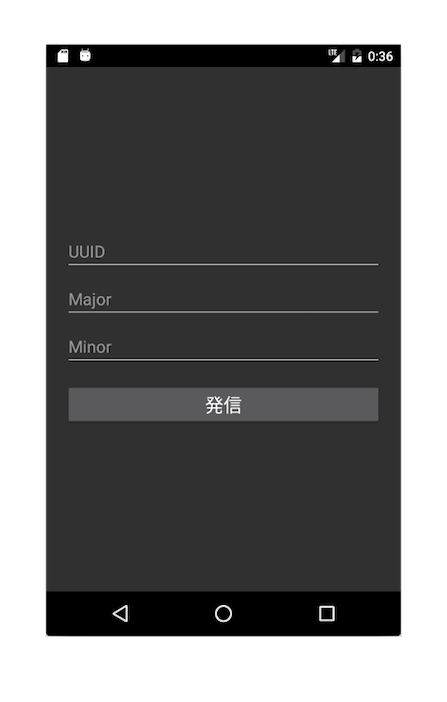
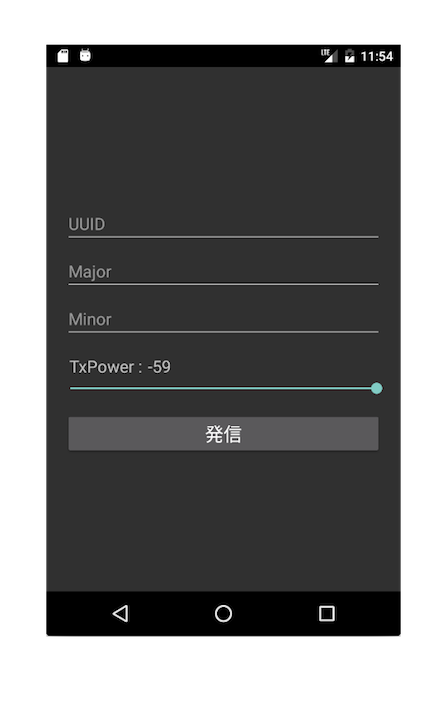
TxPowerの調整機能を追加

Changed region(s): [[0.1454, 0.0598, 0.9016, 0.8974], [0.0872, 0.0897, 0.1163, 0.8974]]

diff --git a/iBeaconTransmitter/Views/MainPage.xaml b/iBeaconTransmitter/Views/MainPage.xaml
@@ -10,6 +10,39 @@
 		<Entry Placeholder="UUID" Text="{Binding Uuid}" IsEnabled="{Binding CanEditBeaconProperties}" />
 		<Entry Placeholder="Major" Text="{Binding Major}" Keyboard="Numeric" IsEnabled="{Binding CanEditBeaconProperties}" />
 		<Entry Placeholder="Minor" Text="{Binding Minor}" Keyboard="Numeric" IsEnabled="{Binding CanEditBeaconProperties}" />
+		<StackLayout HorizontalOptions="FillAndExpand" Orientation="Horizontal" >
+			<StackLayout.Margin>
+				<OnPlatform x:TypeArguments="Thickness"
+							iOS="0,20,0,-8"
+							Android="0,10,0,-8" />
+			</StackLayout.Margin>
+			<Label Text="TxPower :">
+				<Label.FontSize>
+					<OnPlatform x:TypeArguments="x:Double"
+								iOS="18"
+								Android="18" />
+				</Label.FontSize>
+				<Label.Margin>
+					<OnPlatform x:TypeArguments="Thickness"
+								iOS="0,0,0,0"
+								Android="5,0,0,0" />
+				</Label.Margin>
+			</Label>
+			<Label Text="{Binding TxPower}">
+				<Label.FontSize>
+					<OnPlatform x:TypeArguments="x:Double"
+								iOS="18"
+								Android="18" />
+				</Label.FontSize>
+			</Label>
+		</StackLayout>
+		<Slider Minimum="-119" Maximum="-59" Value="{Binding TxPower}" IsEnabled="{Binding CanEditBeaconProperties}">
+			<Slider.Margin>
+				<OnPlatform x:TypeArguments="Thickness"
+							iOS="0,0,0,0"
+							Android="-10,5,-10,0" />
+			</Slider.Margin>
+		</Slider>
 		<Button Text="{Binding ButtonTitle}" BorderColor="Silver" BorderWidth="1" FontSize="20" Margin="0,10,0,0" Command="{Binding TransmitStartStopCommand}"/>
 	</StackLayout>
 </ContentPage>

diff --git a/iBeaconTransmitter/ViewModels/MainPageViewModel.cs b/iBeaconTransmitter/ViewModels/MainPageViewModel.cs
@@ -60,6 +60,16 @@ namespace iBeaconTransmitter.ViewModels
 		}
 
 		/// <summary>
+		/// iBeaconのTxPower
+		/// </summary>
+		private sbyte _txPower;
+		public sbyte TxPower
+		{
+			get { return _txPower; }
+			set { SetProperty(ref _txPower, value);}
+		}
+
+		/// <summary>
 		/// 発信/停止ボタンの表示文字列と、ボタンの状態を保持するbool変数
 		/// </summary>
 		private string _buttonTitle;
@@ -155,12 +165,17 @@ namespace iBeaconTransmitter.ViewModels
 		{
 			// アプリのタイトルを取得する。
 			if (parameters.ContainsKey("title"))
+			{
 				Title = (string)parameters["title"] + " and Prism";
+			}
+
+			// TxPowerの初期値を設定する。
+			TxPower = iBeacon.DEFAULT_TXPOWER;
 
 			// 発信/停止ボタンの表記を更新する。
 			ButtonTitle = Const.STR_TRANSMIT_START;
 
-			// iBeacon情報の変更可否を更新する。
+			// iBeacon情報の変更を可能にする。
 			CanEditBeaconProperties = true;
 
 			// iBeaconの情報を保持するためのインスタンスを作成する。
@@ -184,11 +199,11 @@ namespace iBeaconTransmitter.ViewModels
 				_ibeacon.Uuid = Guid.Parse(Uuid);
 				_ibeacon.Major = ushort.Parse(Major);
 				_ibeacon.Minor = ushort.Parse(Minor);
+				_ibeacon.TxPower = TxPower;
 			}
 			else
 			{
 				// 入力が正しくない場合、エラーメッセージを表示する。
-				// TODO: エラーダイアログ表示処理
 				_pageDialogService.DisplayAlertAsync(Const.STR_DIALOG_TITLE_ERROR,
 				                                     errorMsgForBeaconInfo,
 				                                     Const.STR_DIALOG_BUTTON_OK);

diff --git a/iBeaconTransmitter/Model/iBeacon.cs b/iBeaconTransmitter/Model/iBeacon.cs
@@ -16,6 +16,11 @@ namespace iBeaconTransmitter
 		/// </summary>
 		public const ushort DEFAULT_MINOR = 0;
 
+		/// <summary>
+		/// TxPowerのデフォルト値
+		/// </summary>
+		public const sbyte DEFAULT_TXPOWER = -59;
+
 		#endregion
 
 		#region Valiables
@@ -38,6 +43,12 @@ namespace iBeaconTransmitter
 		/// <value>iBeaconのMinor</value>
 		public ushort Minor { get; set; }
 
+		/// <summary>
+		/// iBeaconのTxPower
+		/// </summary>
+		/// <value>iBeaconのTxPower</value>
+		public sbyte TxPower { get; set; }
+
 		#endregion
 
 		#region Constructor
@@ -50,19 +61,21 @@ namespace iBeaconTransmitter
 			this.Uuid = Guid.Empty;
 			this.Major = DEFAULT_MAJOR;
 			this.Minor = DEFAULT_MINOR;
+			this.TxPower = DEFAULT_TXPOWER;
 		}
 
 		/// <summary>
-		/// 引数で指定されたUUID、Major、Minorを持つiBeaconとしてインスタンスを生成
+		/// 引数で指定されたUUID、Major、Minor、TxPowerを持つiBeaconとしてインスタンスを生成
 		/// </summary>
 		/// <param name="uuid">iBeaconのUUID</param>
 		/// <param name="major">Major値</param>
 		/// <param name="minor">Minor値</param>
-		public iBeacon(Guid uuid, ushort major, ushort minor)
+		public iBeacon(Guid uuid, ushort major, ushort minor, sbyte txPower)
 		{
 			this.Uuid = uuid;
 			this.Major = major;
 			this.Minor = minor;
+			this.TxPower = txPower;
 		}
 
 		#endregion

diff --git a/iBeaconTransmitter.iOS/Model/iBeaconTransmitService.cs b/iBeaconTransmitter.iOS/Model/iBeaconTransmitService.cs
@@ -28,7 +28,7 @@ namespace iBeaconTransmitter.iOS.Model
 		/// <param name="ibeacon">iBeaconの定義</param>
 		public void StartTransmission(iBeacon ibeacon)
 		{
-			this.StartTransmission(ibeacon.Uuid, ibeacon.Major, ibeacon.Minor);
+			this.StartTransmission(ibeacon.Uuid, ibeacon.Major, ibeacon.Minor, ibeacon.TxPower);
 		}
 
 		/// <summary>
@@ -37,12 +37,13 @@ namespace iBeaconTransmitter.iOS.Model
 		/// <param name="uuid">UUID</param>
 		/// <param name="major">Major</param>
 		/// <param name="minor">Minor</param>
-		public void StartTransmission(Guid uuid, ushort major, ushort minor)
+		public void StartTransmission(Guid uuid, ushort major, ushort minor, sbyte txPower)
 		{
 			// BLE発信制御クラスに渡すためのiBeacon定義を作成する。
 			NSUuid nsUuid = new NSUuid(uuid.ToString());
 			CLBeaconRegion region = new CLBeaconRegion(nsUuid, major, minor, uuid.ToString());
-			NSDictionary peripheralData = region.GetPeripheralData(null);
+			NSNumber nsnumTxPower = new NSNumber(txPower);
+			NSDictionary peripheralData = region.GetPeripheralData(nsnumTxPower);
 
 			// iBeaconの発信を開始する。
 			_peripheralManager.StartAdvertising(peripheralData);

diff --git a/iBeaconTransmitter.Droid/Model/iBeaconTransmitService.cs b/iBeaconTransmitter.Droid/Model/iBeaconTransmitService.cs
@@ -39,7 +39,7 @@ namespace iBeaconTransmitter.Droid.Model
 		/// <param name="ibeacon">iBeaconの定義</param>
 		public void StartTransmission(iBeacon ibeacon)
 		{
-			this.StartTransmission(ibeacon.Uuid, ibeacon.Major, ibeacon.Minor);
+			this.StartTransmission(ibeacon.Uuid, ibeacon.Major, ibeacon.Minor, ibeacon.TxPower);
 		}
 
 		/// <summary>
@@ -48,13 +48,14 @@ namespace iBeaconTransmitter.Droid.Model
 		/// <param name="uuid">UUID</param>
 		/// <param name="major">Major</param>
 		/// <param name="minor">Minor</param>
-		public void StartTransmission(Guid uuid, ushort major, ushort minor)
+		public void StartTransmission(Guid uuid, ushort major, ushort minor, sbyte txPower)
 		{
 			// Android用のビーコン定義を作成
 			Beacon beacon = new Beacon.Builder()
 			                    .SetId1(uuid.ToString())
 			                    .SetId2(major.ToString())
 			                    .SetId3(minor.ToString())
+			                    .SetTxPower(txPower)
 			                    .SetManufacturer(Const.COMPANY_CODE_APPLE)
 			                    .Build();
 

diff --git a/iBeaconTransmitter/Model/IiBeaconTransmitService.cs b/iBeaconTransmitter/Model/IiBeaconTransmitService.cs
@@ -5,7 +5,7 @@ namespace iBeaconTransmitter.Model
 	public interface IiBeaconTransmitService
 	{
 		void StartTransmission(iBeacon ibeacon);
-		void StartTransmission(Guid uuid, ushort major, ushort minor);
+		void StartTransmission(Guid uuid, ushort major, ushort minor, sbyte txPower);
 		void StopTransmission();
 	}
 }

diff --git a/iBeaconTransmitter.Droid/Properties/AssemblyInfo.cs b/iBeaconTransmitter.Droid/Properties/AssemblyInfo.cs
@@ -10,7 +10,7 @@ using Android.App;
 [assembly: AssemblyConfiguration("")]
 [assembly: AssemblyCompany("")]
 [assembly: AssemblyProduct("")]
-[assembly: AssemblyCopyright("(c) microwavePC")]
+[assembly: AssemblyCopyright("microwavePC")]
 [assembly: AssemblyTrademark("")]
 [assembly: AssemblyCulture("")]
 

diff --git a/README.md b/README.md
@@ -7,7 +7,8 @@ Prism for Xamarin.Forms（Prism.Forms）で作成したiBeacon発信アプリで
 - Android
 
 ## 機能
-ユーザーが入力したUUID、Major、Minorを持つ、iBeaconに準拠したフォーマットのアドバタイズメントパケットを発信します。
+ユーザーが入力したUUID、Major、Minorを持つ、iBeaconに準拠したフォーマットのアドバタイズメントパケットを発信します。<br>
+TxPowerの調整も可能です。
 
 ## 画面ショット
 |iOS|Android|
